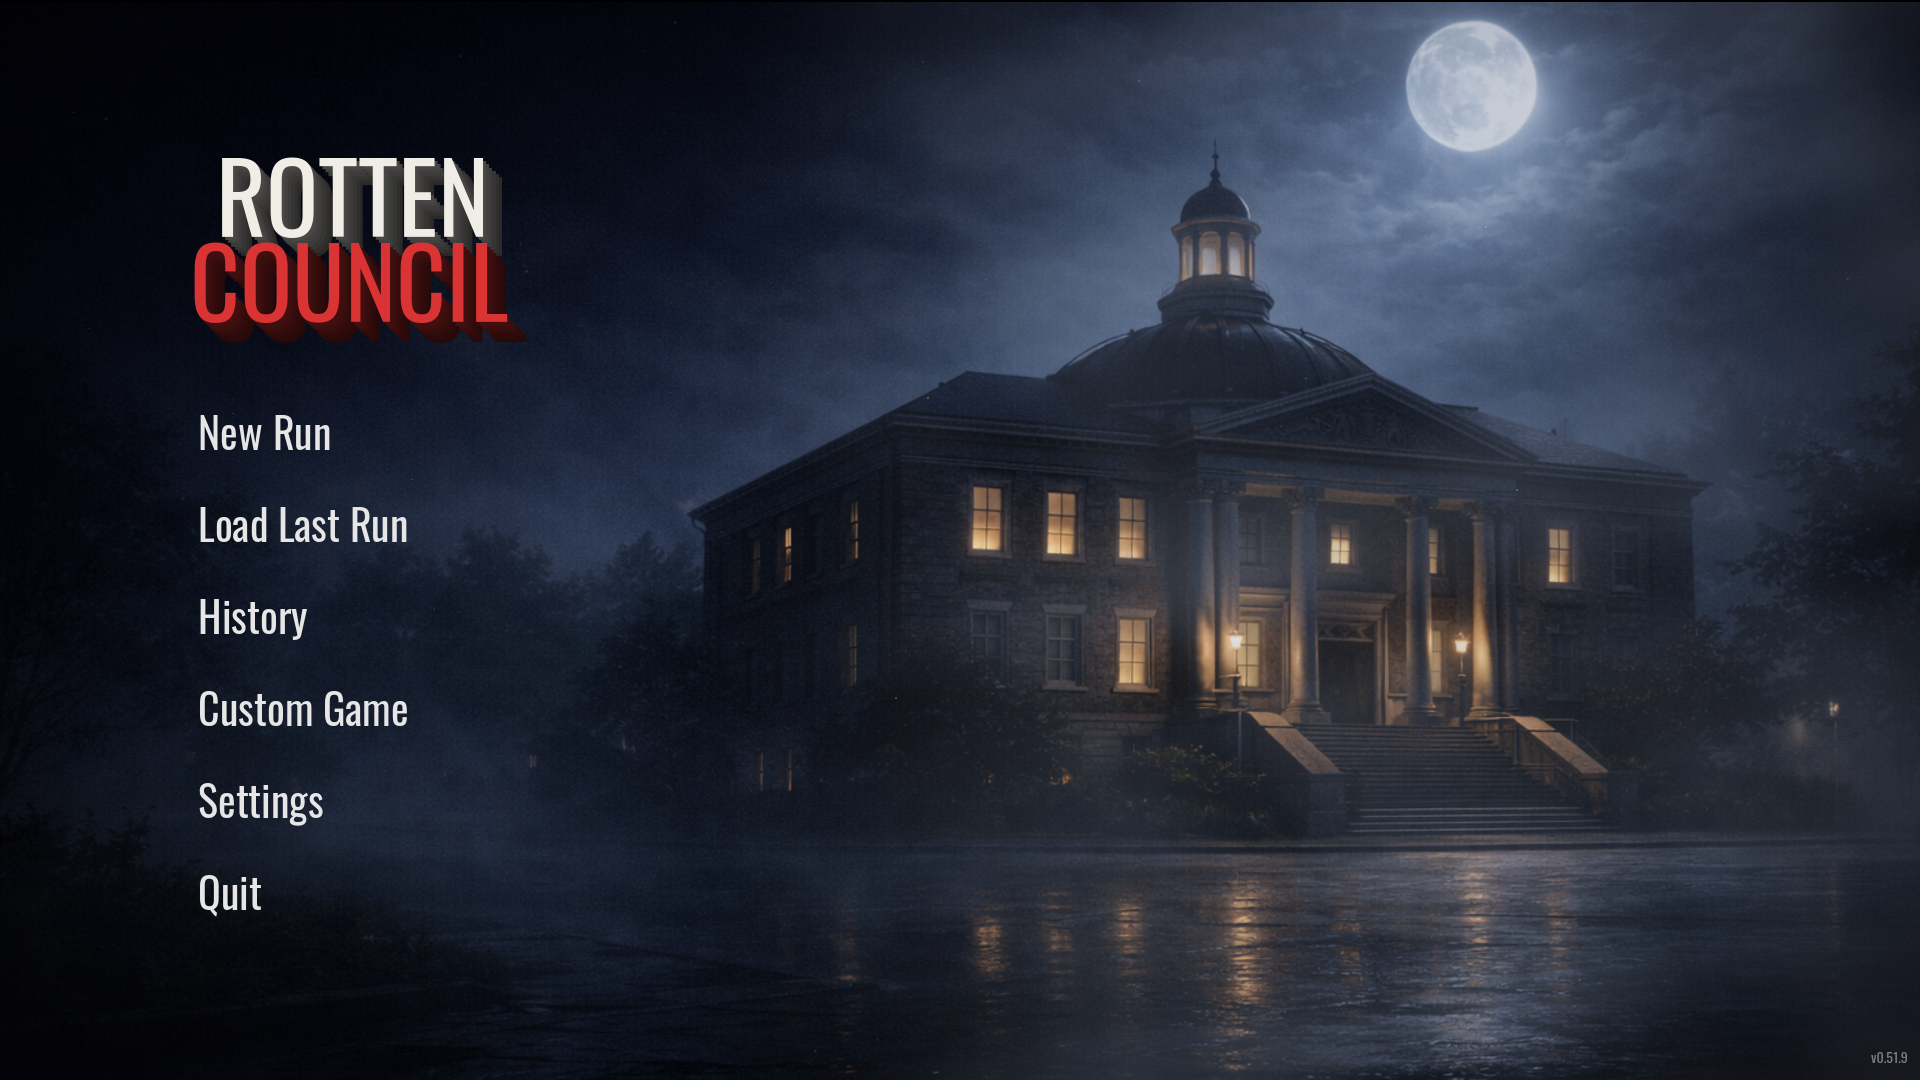
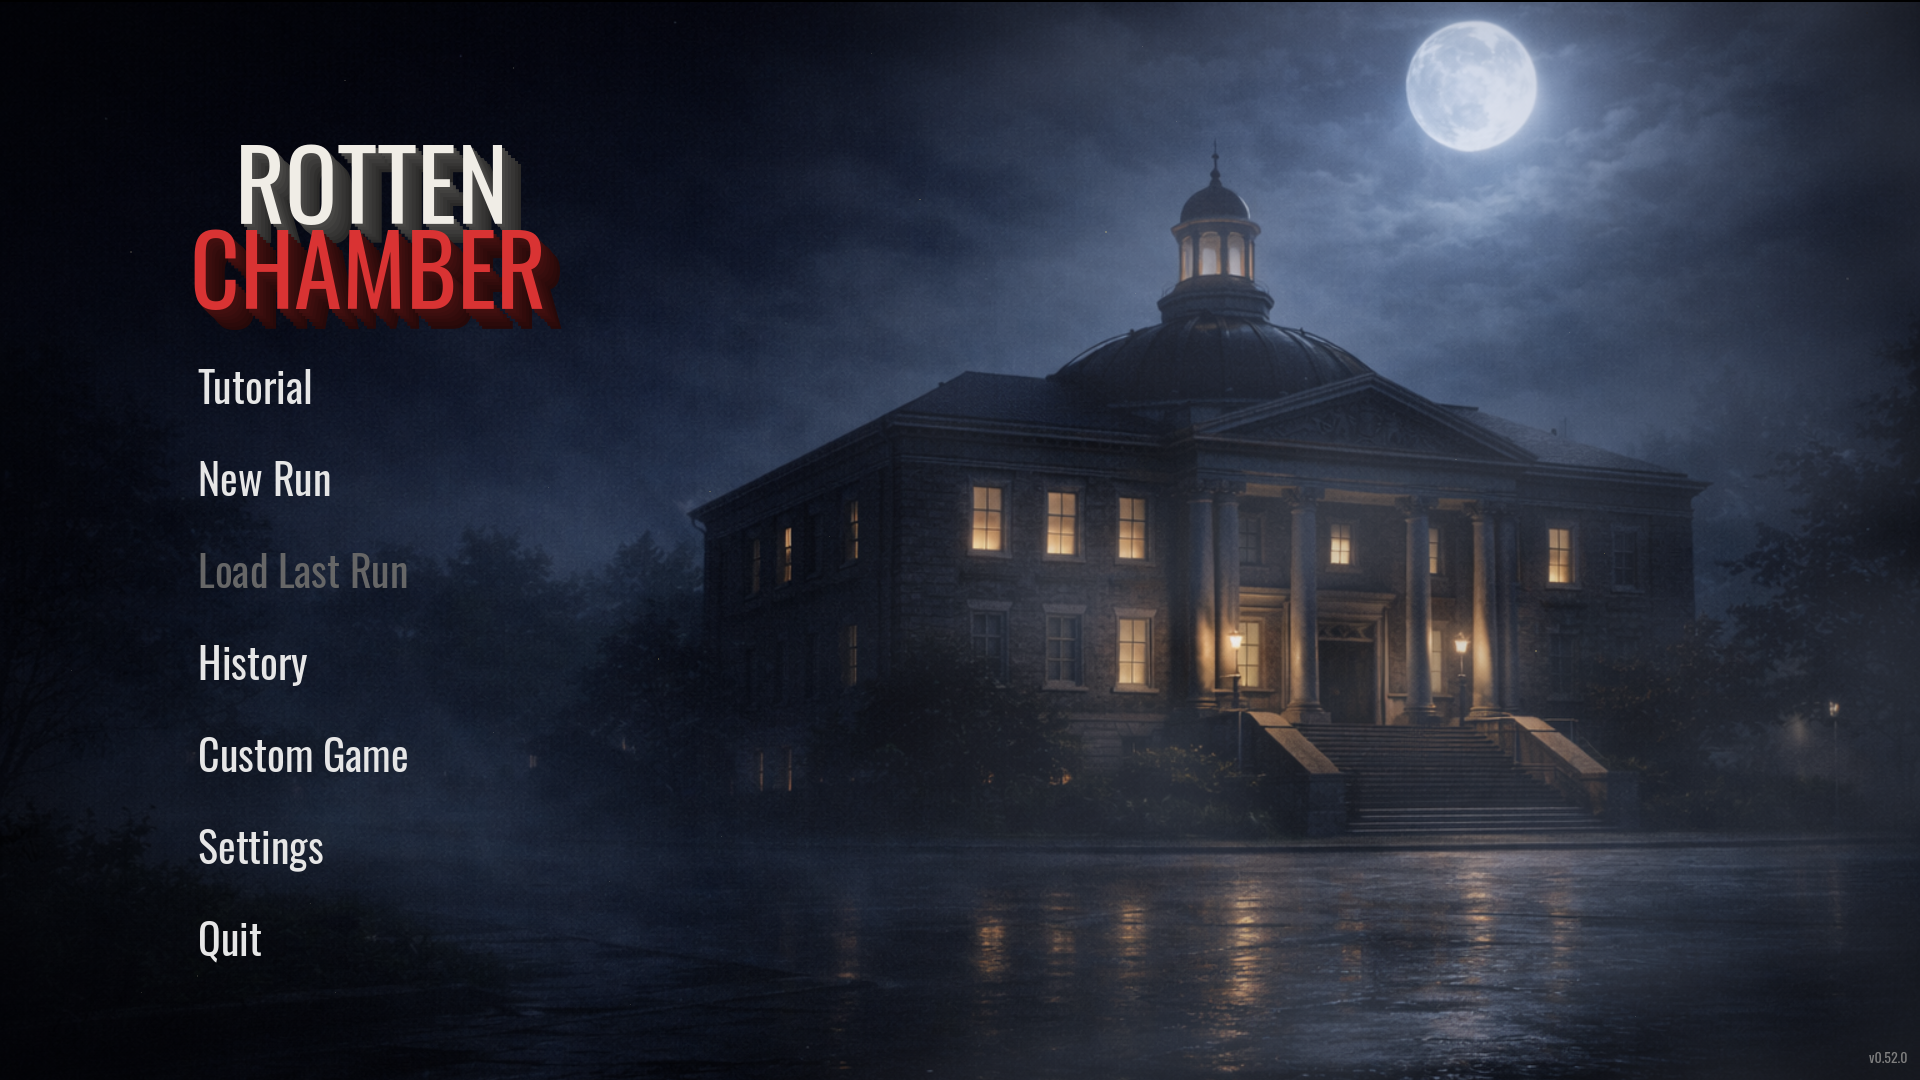
Rename: Rotten Council -> Rotten Chamber across all website files

diff --git a/index.html b/index.html
@@ -3,11 +3,11 @@
 <head>
   <meta charset="UTF-8">
   <meta name="viewport" content="width=device-width, initial-scale=1.0">
-  <title>Rotten Council - A Social Deduction Puzzle Game</title>
+  <title>Rotten Chamber - A Social Deduction Puzzle Game</title>
   <meta name="description" content="Analyze statements. Cross-reference clues. Arrest the corrupt. A single-player social deduction puzzle game where every official has something to hide.">
 
   <!-- Open Graph -->
-  <meta property="og:title" content="Rotten Council">
+  <meta property="og:title" content="Rotten Chamber">
   <meta property="og:description" content="A single-player social deduction puzzle game. Analyze statements. Cross-reference clues. Arrest the corrupt.">
   <meta property="og:image" content="assets/images/exclusive/derived/hero_key_art_og.png">
   <meta property="og:type" content="website">
@@ -28,8 +28,8 @@
   <nav class="nav" id="nav">
     <div class="nav__inner">
       <a href="#" class="nav__brand">
-        <img src="assets/images/favicon.png" alt="Rotten Council" class="nav__logo">
-        <span class="nav__title" data-i18n="nav.title">Rotten Council</span>
+        <img src="assets/images/favicon.png" alt="Rotten Chamber" class="nav__logo">
+        <span class="nav__title" data-i18n="nav.title">Rotten Chamber</span>
       </a>
 
       <ul class="nav__links" id="nav-links">
@@ -69,7 +69,7 @@
       <div class="hero__badge" data-i18n="hero.badge">In Development</div>
       <h1 class="hero__title">
         <span class="hero__title-line" data-i18n="hero.title_1">Rotten</span>
-        <span class="hero__title-line hero__title-accent" data-i18n="hero.title_2">Council</span>
+        <span class="hero__title-line hero__title-accent" data-i18n="hero.title_2">Chamber</span>
       </h1>
       <p class="hero__tagline" data-i18n="hero.tagline">A single-player social deduction puzzle game</p>
       <p class="hero__subtitle" data-i18n="hero.subtitle">Analyze statements &middot; Cross-reference clues &middot; Arrest the corrupt</p>
@@ -93,7 +93,7 @@
       <div class="section-header section-header--center reveal">
         <h2 data-i18n="screenshots.title">Screenshots</h2>
         <div class="section-divider"></div>
-        <p class="section-subtitle" data-i18n="screenshots.subtitle">See the council in action</p>
+        <p class="section-subtitle" data-i18n="screenshots.subtitle">See the chamber in action</p>
       </div>
       <div class="screenshots__grid reveal reveal-delay-1">
         <div class="screenshot">
@@ -109,7 +109,7 @@
           <img src="assets/images/screenshots/high-tension-reveal.png" alt="Arrests and corrupt reveals" class="screenshot__img" loading="lazy">
         </div>
         <div class="screenshot">
-          <img src="assets/images/screenshots/wide-table-late-game.png" alt="Late-game council with 13 officials" class="screenshot__img" loading="lazy">
+          <img src="assets/images/screenshots/wide-table-late-game.png" alt="Late-game chamber with 13 officials" class="screenshot__img" loading="lazy">
         </div>
         <div class="screenshot">
           <img src="assets/images/screenshots/professional-toolkit-usage.png" alt="Deploying hired professionals" class="screenshot__img" loading="lazy">
@@ -155,7 +155,7 @@
   <section class="roles" id="roles">
     <div class="container">
       <div class="section-header section-header--center reveal">
-        <h2 data-i18n="roles.title">The Council</h2>
+        <h2 data-i18n="roles.title">The Chamber</h2>
         <div class="section-divider"></div>
         <p class="section-subtitle" data-i18n="roles.subtitle">15 unique roles. Each with a statement, an agenda and something to hide.</p>
       </div>
@@ -228,7 +228,7 @@
             <div class="corrupt-mystery__overlay"></div>
           </div>
           <div class="corrupt-mystery__content">
-            <h3 class="corrupt-mystery__title" data-i18n="roles.corrupt_mystery_title">Hidden Among the Council</h3>
+            <h3 class="corrupt-mystery__title" data-i18n="roles.corrupt_mystery_title">Hidden Among the Chamber</h3>
             <p class="corrupt-mystery__desc" data-i18n="roles.corrupt_mystery_desc">Corrupt officials disguise themselves as innocent roles. Some blackmail, some silence, some convert loyalties. Every lie is a clue if you know where to look.</p>
             <div class="corrupt-mystery__roles">
               <span class="corrupt-mystery__tag" data-i18n="role.crook.name">Crook</span>
@@ -249,7 +249,7 @@
       <div class="section-header section-header--center reveal">
         <h2 data-i18n="features.title">Features</h2>
         <div class="section-divider"></div>
-        <p class="section-subtitle" data-i18n="features.subtitle">What makes Rotten Council unique</p>
+        <p class="section-subtitle" data-i18n="features.subtitle">What makes Rotten Chamber unique</p>
       </div>
       <div class="features__grid">
 
@@ -265,7 +265,7 @@
 
         <div class="feature reveal reveal-delay-3">
           <h3 class="feature__title" data-i18n="feature.custom.title">Custom Games</h3>
-          <p class="feature__desc" data-i18n="feature.custom.desc">Choose the council size, the number of corrupt officials, the difficulty and which roles appear. Build exactly the puzzle you want.</p>
+          <p class="feature__desc" data-i18n="feature.custom.desc">Choose the chamber size, the number of corrupt officials, the difficulty and which roles appear. Build exactly the puzzle you want.</p>
         </div>
 
         <div class="feature reveal reveal-delay-1">
@@ -294,7 +294,7 @@
         <div class="footer__section">
           <div class="footer__brand">
             <img src="assets/images/favicon.png" alt="" class="footer__logo">
-            <span class="footer__name">Rotten Council</span>
+            <span class="footer__name">Rotten Chamber</span>
           </div>
           <p class="footer__placeholder" data-i18n="footer.studio_placeholder">Developer studio info coming soon</p>
         </div>
@@ -320,7 +320,7 @@
       </div>
 
       <div class="footer__bottom">
-        <span class="footer__copyright">&copy; 2026 Rotten Council. All rights reserved.</span>
+        <span class="footer__copyright">&copy; 2026 Rotten Chamber. All rights reserved.</span>
         <span class="footer__godot">Made with Godot Engine</span>
       </div>
     </div>

diff --git a/css/styles.css b/css/styles.css
@@ -1,5 +1,5 @@
 /* ═══════════════════════════════════════════════════════════════════════════
-   ROTTEN COUNCIL — Website Stylesheet
+   ROTTEN CHAMBER — Website Stylesheet
    "Corruption Dossier" — Noir editorial / classified investigation aesthetic
    ═══════════════════════════════════════════════════════════════════════════ */
 

diff --git a/js/i18n.js b/js/i18n.js
@@ -1,5 +1,5 @@
 /* ═══════════════════════════════════════════════════════════════════════════
-   ROTTEN COUNCIL — Internationalization Engine
+   ROTTEN CHAMBER — Internationalization Engine
    JSON-based translation with data-i18n attributes
    ═══════════════════════════════════════════════════════════════════════════ */
 

diff --git a/js/main.js b/js/main.js
@@ -1,5 +1,5 @@
 /* ═══════════════════════════════════════════════════════════════════════════
-   ROTTEN COUNCIL — Main JavaScript
+   ROTTEN CHAMBER — Main JavaScript
    Nav behavior, scroll animations, card flip, dust particles
    ═══════════════════════════════════════════════════════════════════════════ */
 

diff --git a/CLAUDE.md b/CLAUDE.md
@@ -1,8 +1,8 @@
-# CLAUDE.md: Rotten Council Website
+# CLAUDE.md: Rotten Chamber Website
 
 ## Project Overview
 
-Marketing website for **Rotten Council**, a single-player social deduction puzzle game built in Godot. This is a static site with no build step and no framework. Open `index.html` in a browser to preview.
+Marketing website for **Rotten Chamber**, a single-player social deduction puzzle game built in Godot. This is a static site with no build step and no framework. Open `index.html` in a browser to preview.
 
 The game repository lives at `../../` (parent `game-1/`). The game's own `CLAUDE.md` is the authoritative source for game mechanics, role names, campaign structure and data. **Always cross-reference game data before writing website content.** Role names, counts and campaign structure change in the game repo first.
 

diff --git a/WEBSITE_TODO.md b/WEBSITE_TODO.md
@@ -1,4 +1,4 @@
-# Rotten Council - Website Replan
+# Rotten Chamber - Website Replan
 
 Bu dosya, website yenilemesi icin guncel asset ve entegrasyon planidir. Eski genel checklist yerine, artik gercekten uretilmis gorseller, turetilmis crop'lar, entegrasyon adimlari ve eksik kalan non-visual isler takip edilir.
 
@@ -133,7 +133,7 @@ Bunlar tamamlanmadan yeni gorseller uretilmis olsa bile website donusumu bitmis 
 Bunlar gorsel uretilmesini zorunlu kilmiyor ama lansman kalitesini belirliyor.
 
 - [ ] **Game Logo / Logotype**
-  - Council seal + "ROTTEN COUNCIL" wordmark
+  - Chamber seal + "ROTTEN CHAMBER" wordmark
   - Gerekli varyantlar:
     - yatay logo
     - ikon-only
